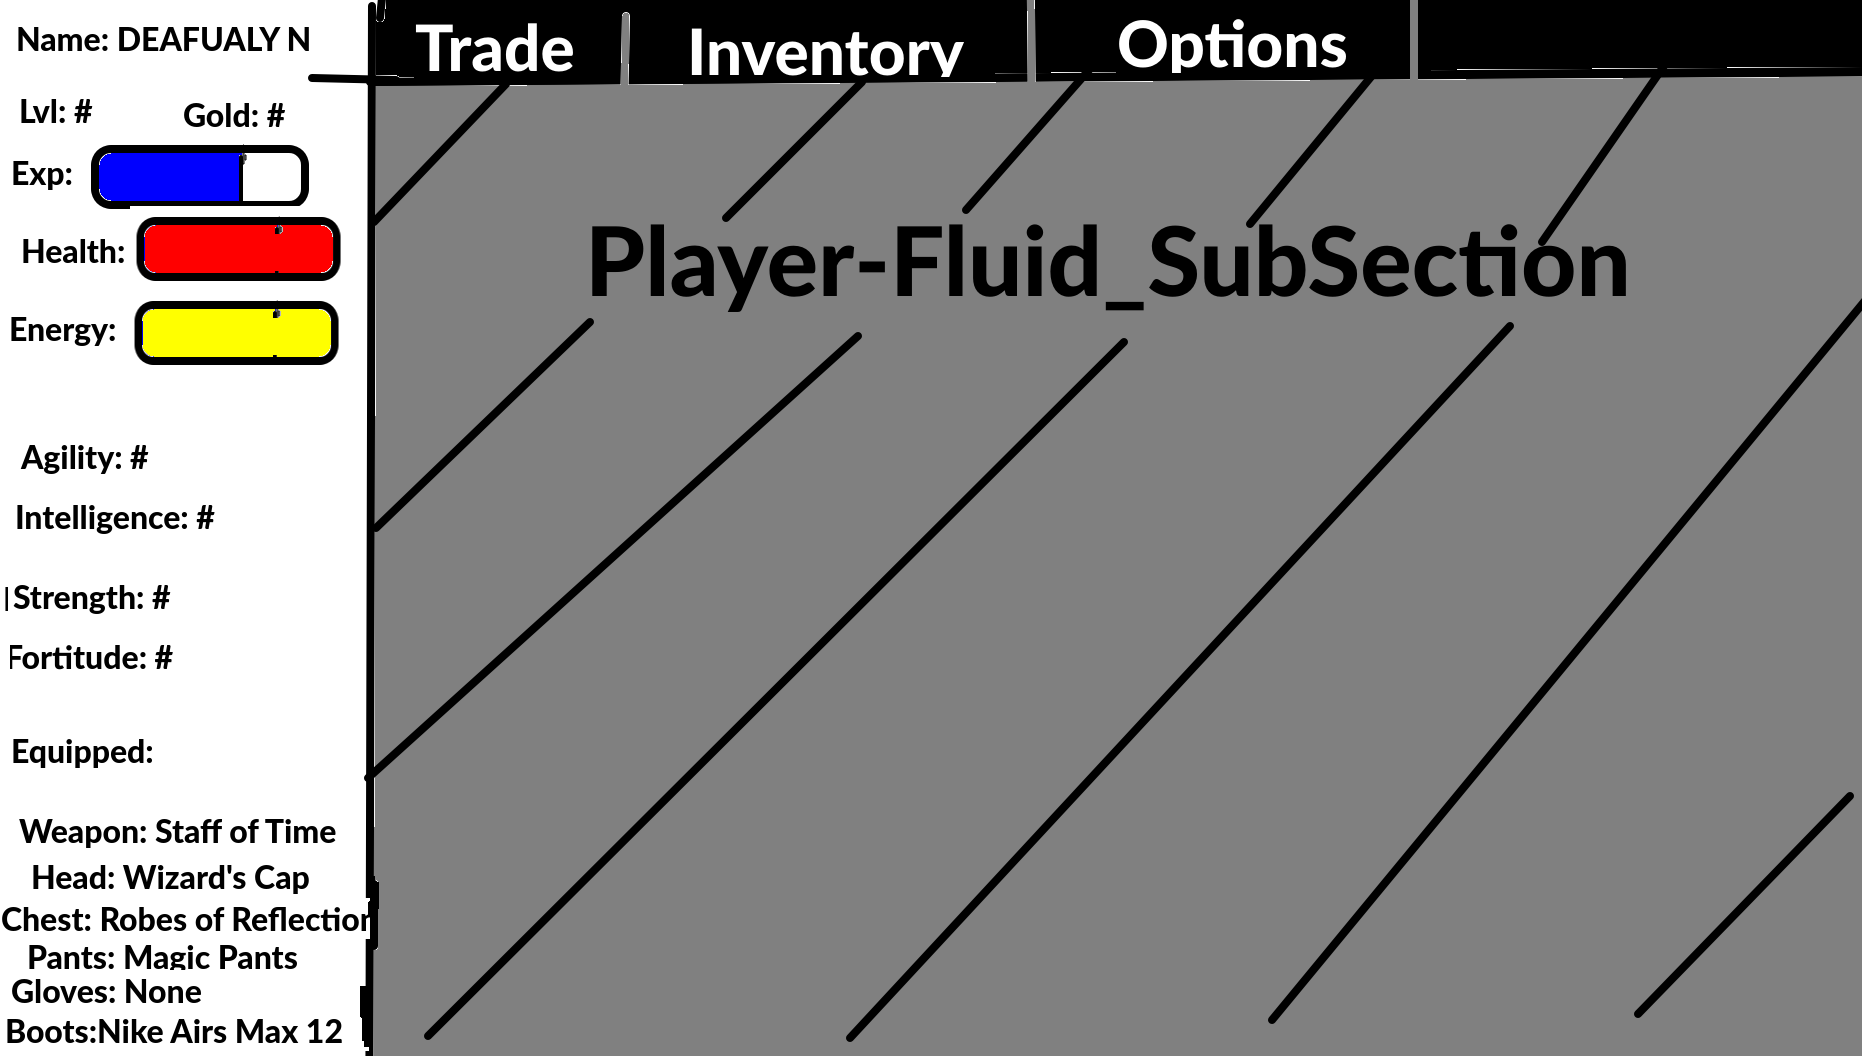
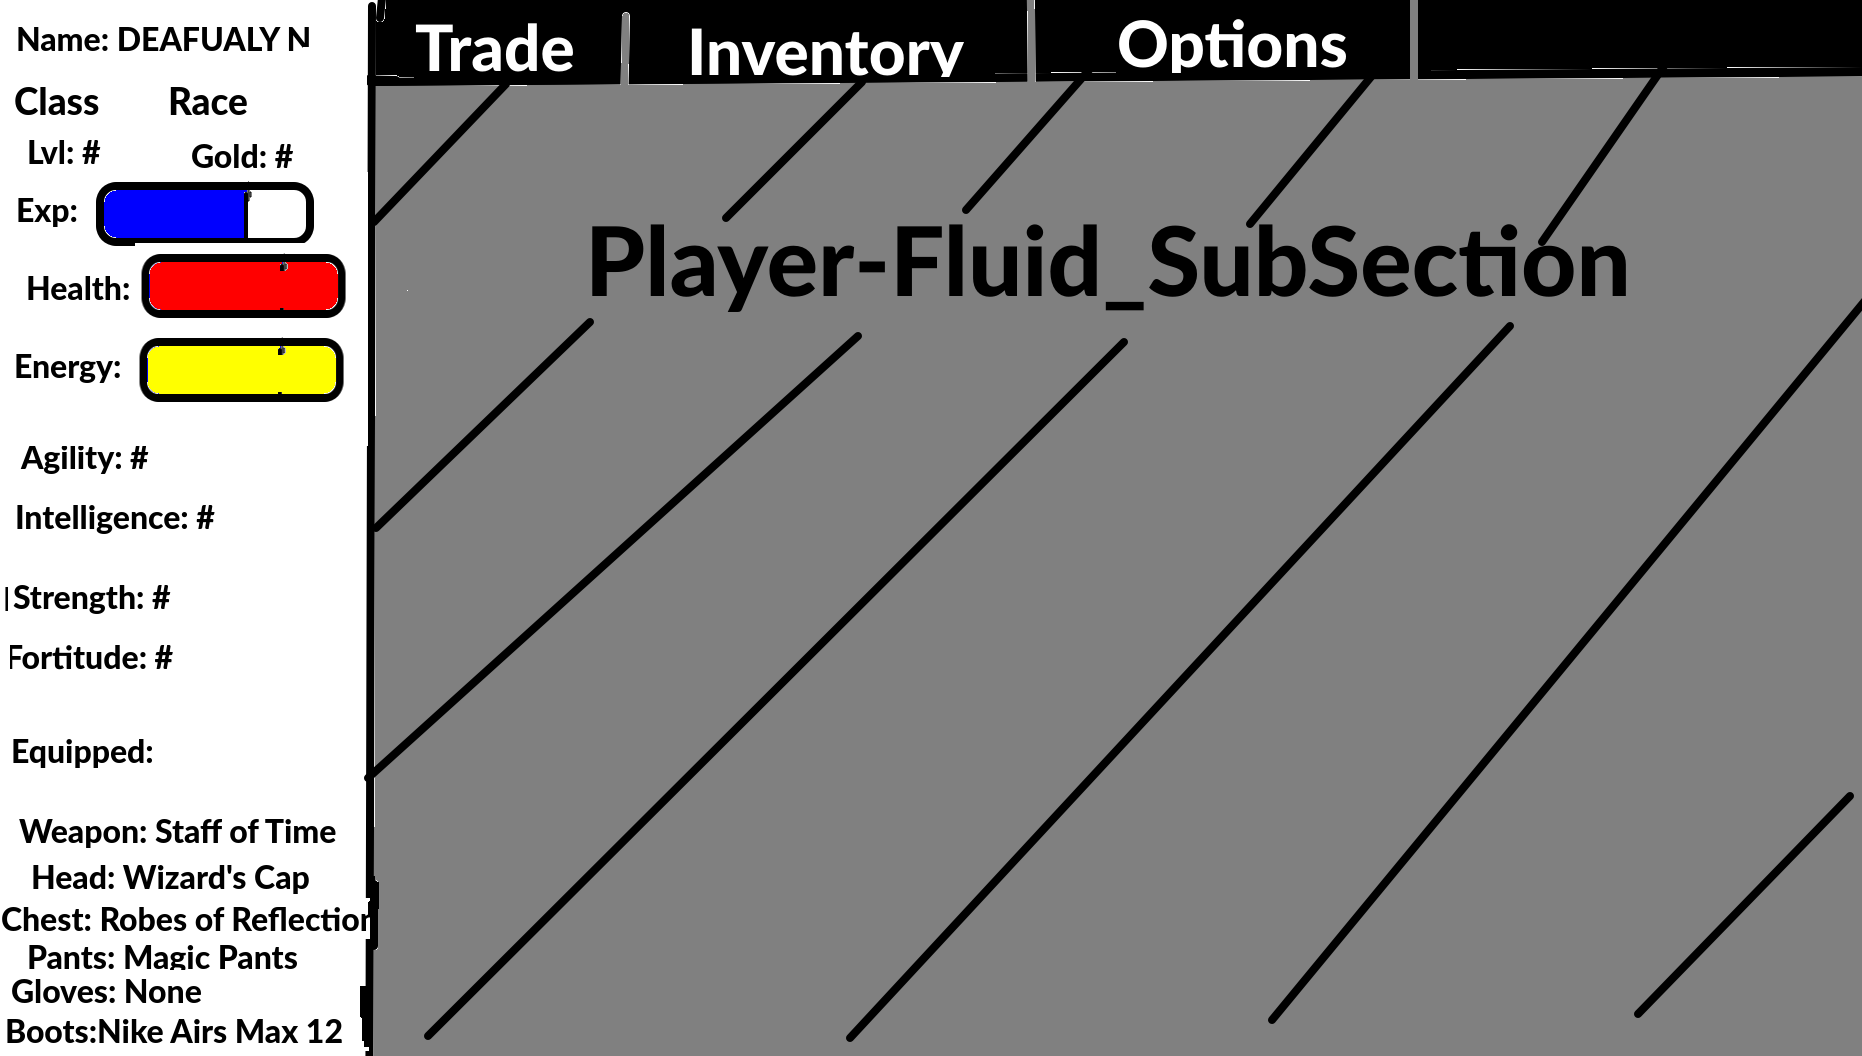
Updates to GUI

Changed region(s): [[0.0, 0.0625, 0.1869, 0.4062], [0.1557, 0.0625, 0.1869, 0.0938]]

diff --git a/src/PaperGame/gui/GUI.java b/src/PaperGame/gui/GUI.java
@@ -91,7 +91,8 @@ public class GUI extends Application implements Runnable {
             plyrMstrHealthLbl, plyrMstrManaLbl, plyrMstrJewelryLbl;
     MenuBar plyrMstrMenuBar;
     Menu plyrMstrTradeMenu, plyrMstrInventoryMenu, plyrMstrOptionsMenu;
-    Image chmpImg;
+    Image plyrMstrChmpImg;
+    ImageView plyrMstrChmpImgView;
 
 
     //----------------- METHODS ----------------------------------------------------------------------------------------
@@ -451,7 +452,6 @@ public class GUI extends Application implements Runnable {
             try { Thread.sleep(333); } catch(InterruptedException ex){ ex.printStackTrace(); }
         }
 
-        System.out.println("Join Failed: GUI");
         // Return to the previous screen if the join attempt failed
         if(ThreadBridge.joinFailed()){ return; }
 
@@ -505,8 +505,13 @@ public class GUI extends Application implements Runnable {
      * @param tempChmp The Player's Champion
      */
     private void createMainChmpScene(Champion tempChmp){
-
         // Generate the Character info on the left side of the scene
+        plyrMstrChmpImg = new Image("file:" + System.getProperty("user.dir") + "/src/PaperGame/res/Pictures/Eric_K" +
+                "oston.jpg");
+        plyrMstrChmpImgView = new ImageView(plyrMstrChmpImg);
+        plyrMstrChmpImgView.setFitHeight(180);
+        plyrMstrChmpImgView.setFitWidth(180);
+        plyrMstrChmpImgView.setPreserveRatio(true);
         plyrMstrNameLbl = new Label("Name: " + tempChmp.getName());
         plyrMstrRaceLbl = new Label(tempChmp.getRace());
         plyrMstrClassLbl = new Label(tempChmp.getChampionClass());
@@ -568,18 +573,26 @@ public class GUI extends Application implements Runnable {
         // Add all the Champions stats node to the VBox
         plyrMstrVPanel = new VBox();
         plyrMstrVPanel.getChildren().addAll(
-                plyrMstrNameLbl, plyrMstrHPanel1, plyrMstrHPanel2, plyrMstrExpLbl, plyrMstrHealthLbl, plyrMstrEneryLbl,
-                plyrMstrAgiLbl, plyrMstrIntLbl, plyrMstrStrLbl, plyrMstrFrtLbl, plyrMstrEqpdLbl, plyrMstrWpnLbl,
-                plyrMstrHeadLbl, plyrMstrJewelryLbl, plyrMstrChestLbl, plyrMstrPantsLbl, plyrMstrGlovesLbl,
-                plyrMstrBootsLbl
+                plyrMstrChmpImgView, plyrMstrNameLbl, plyrMstrHPanel1, plyrMstrHPanel2, plyrMstrExpLbl,
+                plyrMstrHealthLbl, plyrMstrEneryLbl, plyrMstrAgiLbl, plyrMstrIntLbl, plyrMstrStrLbl, plyrMstrFrtLbl,
+                plyrMstrEqpdLbl, plyrMstrWpnLbl, plyrMstrHeadLbl, plyrMstrJewelryLbl, plyrMstrChestLbl,
+                plyrMstrPantsLbl, plyrMstrGlovesLbl, plyrMstrBootsLbl
         );
         plyrMstrVPanel.setPadding(new Insets(10));
         plyrMstrVPanel.setSpacing(8);
 
         // Set up the Champion Master MenuBar
+        MenuItem dummyItemA = new MenuItem();
+        MenuItem dummyItemB = new MenuItem();
         plyrMstrTradeMenu = new Menu("Trade");
+        plyrMstrTradeMenu.getItems().add(dummyItemA);
+        plyrMstrTradeMenu.addEventHandler(Menu.ON_SHOWN, e -> plyrMstrTradeMenu.hide());
+        plyrMstrTradeMenu.addEventHandler(Menu.ON_SHOWING, e -> plyrMstrTradeMenu.fire());
         plyrMstrTradeMenu.setOnAction( e -> System.out.println("Clicked Trade"));
         plyrMstrInventoryMenu = new Menu("Inventory");
+        plyrMstrInventoryMenu.getItems().add(dummyItemB);
+        plyrMstrInventoryMenu.addEventHandler(Menu.ON_SHOWN, e -> plyrMstrInventoryMenu.hide());
+        plyrMstrInventoryMenu.addEventHandler(Menu.ON_SHOWING, e -> plyrMstrInventoryMenu.fire());
         plyrMstrInventoryMenu.setOnAction(e -> System.out.println("Inventory clicked"));
         plyrMstrMenuBar = new MenuBar();
         plyrMstrMenuBar.getMenus().addAll(plyrMstrTradeMenu, plyrMstrInventoryMenu);
@@ -590,7 +603,7 @@ public class GUI extends Application implements Runnable {
         plyrMstrBPanel.setTop(plyrMstrMenuBar);
 
         // Init Player Master Scene
-        plyrMstrScene = new Scene(plyrMstrBPanel, 900, 600);
+        plyrMstrScene = new Scene(plyrMstrBPanel, 960, 650);
 
         // Set scene and show the stage
         stage.setScene(plyrMstrScene);
